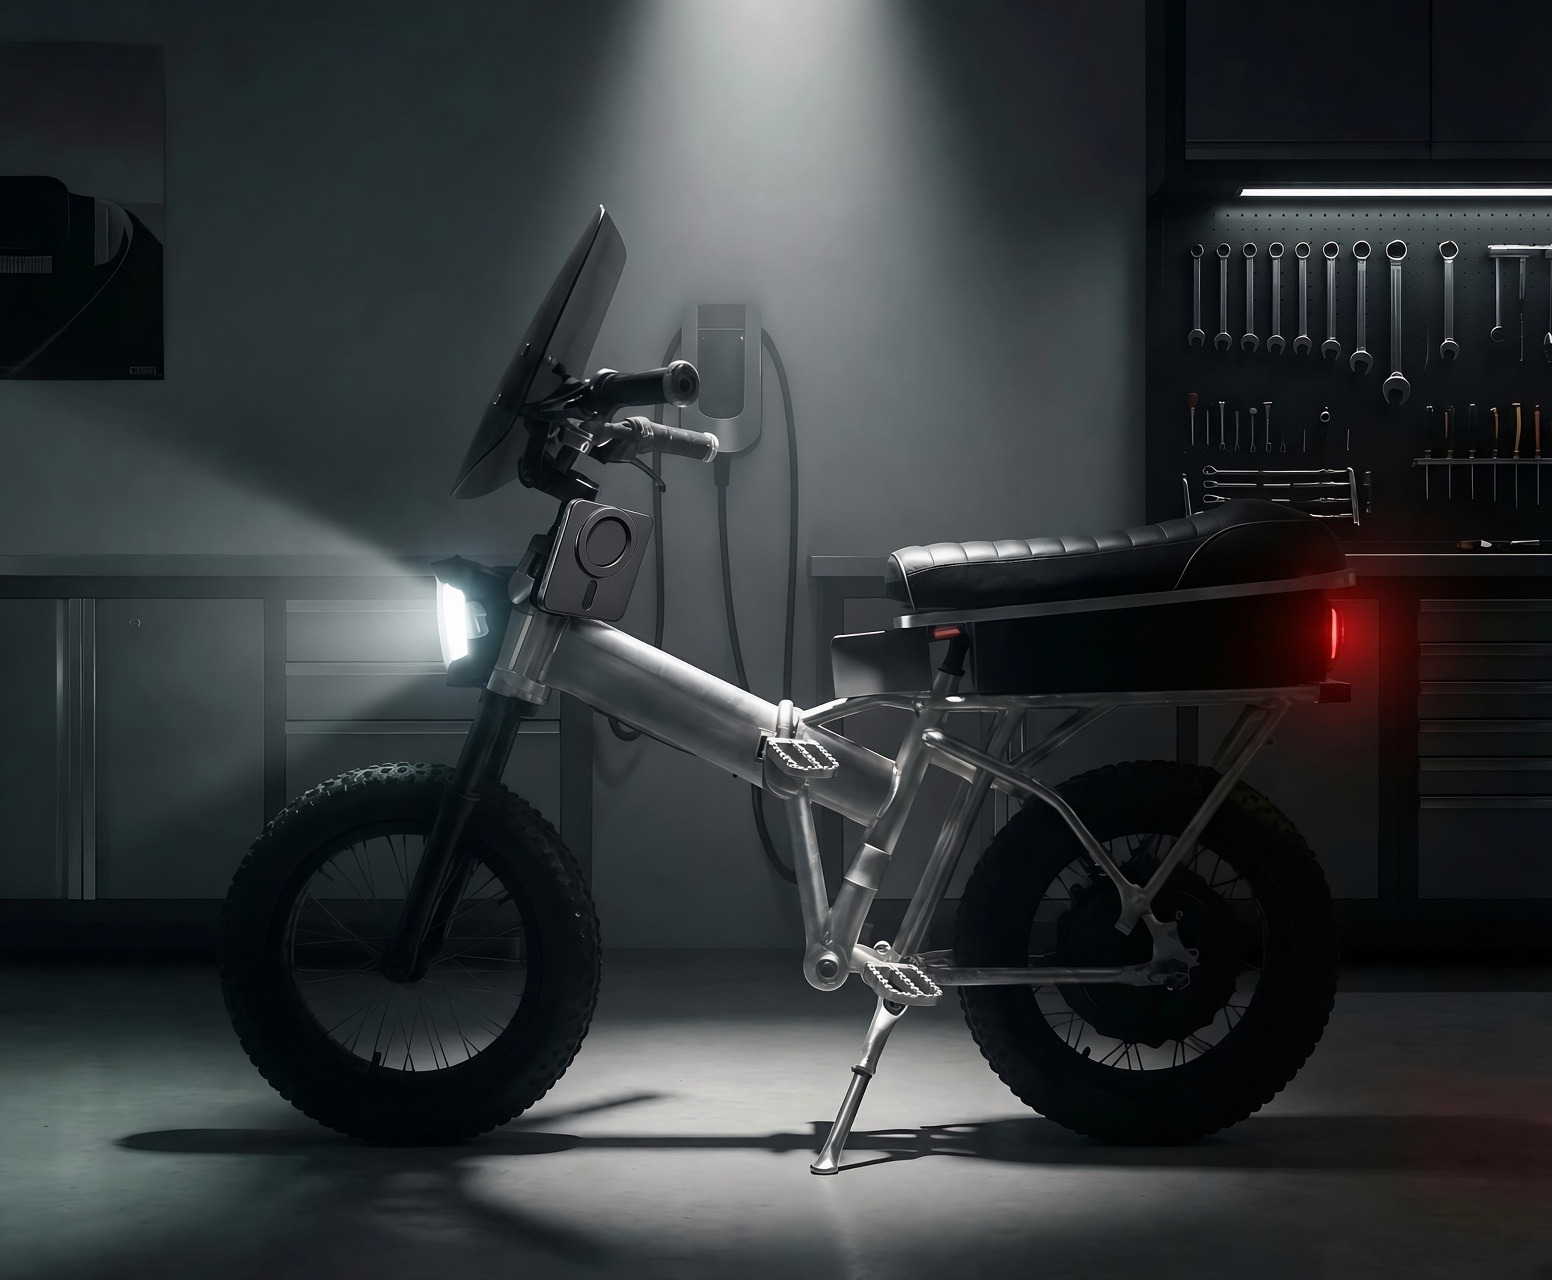
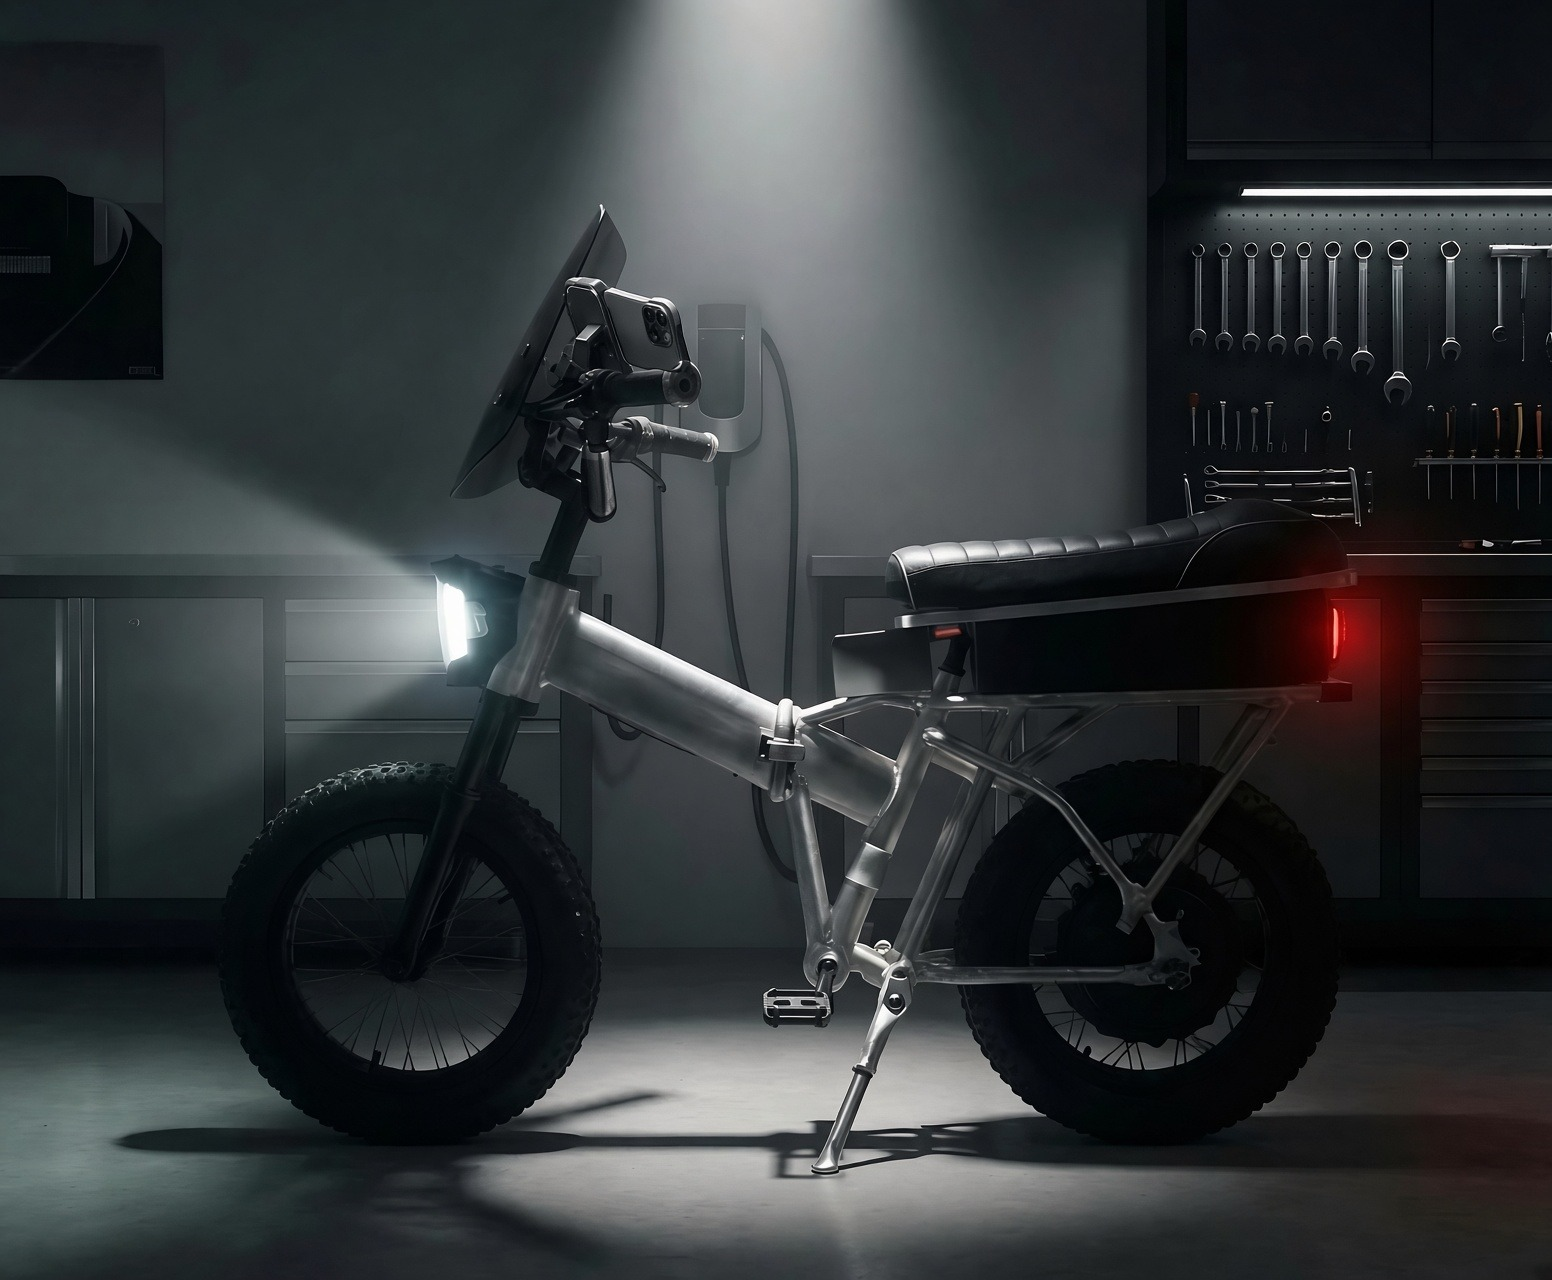
Match Blender side view: hinge footpeg and landscape phone on stem.

diff --git a/index.html b/index.html
@@ -141,8 +141,8 @@
         <div class="bike-visual">
           <figure class="bike-card">
             <picture>
-              <source srcset="assets/skeletkey-bike.webp?v=8" type="image/webp" />
-              <img src="assets/skeletkey-bike.jpg?v=8" alt="SkeletKey Puca folding electric motorcycle with magnetic phone dash, footrests, and modular battery" class="bike-image" />
+              <source srcset="assets/skeletkey-bike.webp?v=9" type="image/webp" />
+              <img src="assets/skeletkey-bike.jpg?v=9" alt="SkeletKey Puca folding electric motorcycle with magnetic phone dash, footrests, and modular battery" class="bike-image" />
             </picture>
           </figure>
           <figure class="bike-card">
